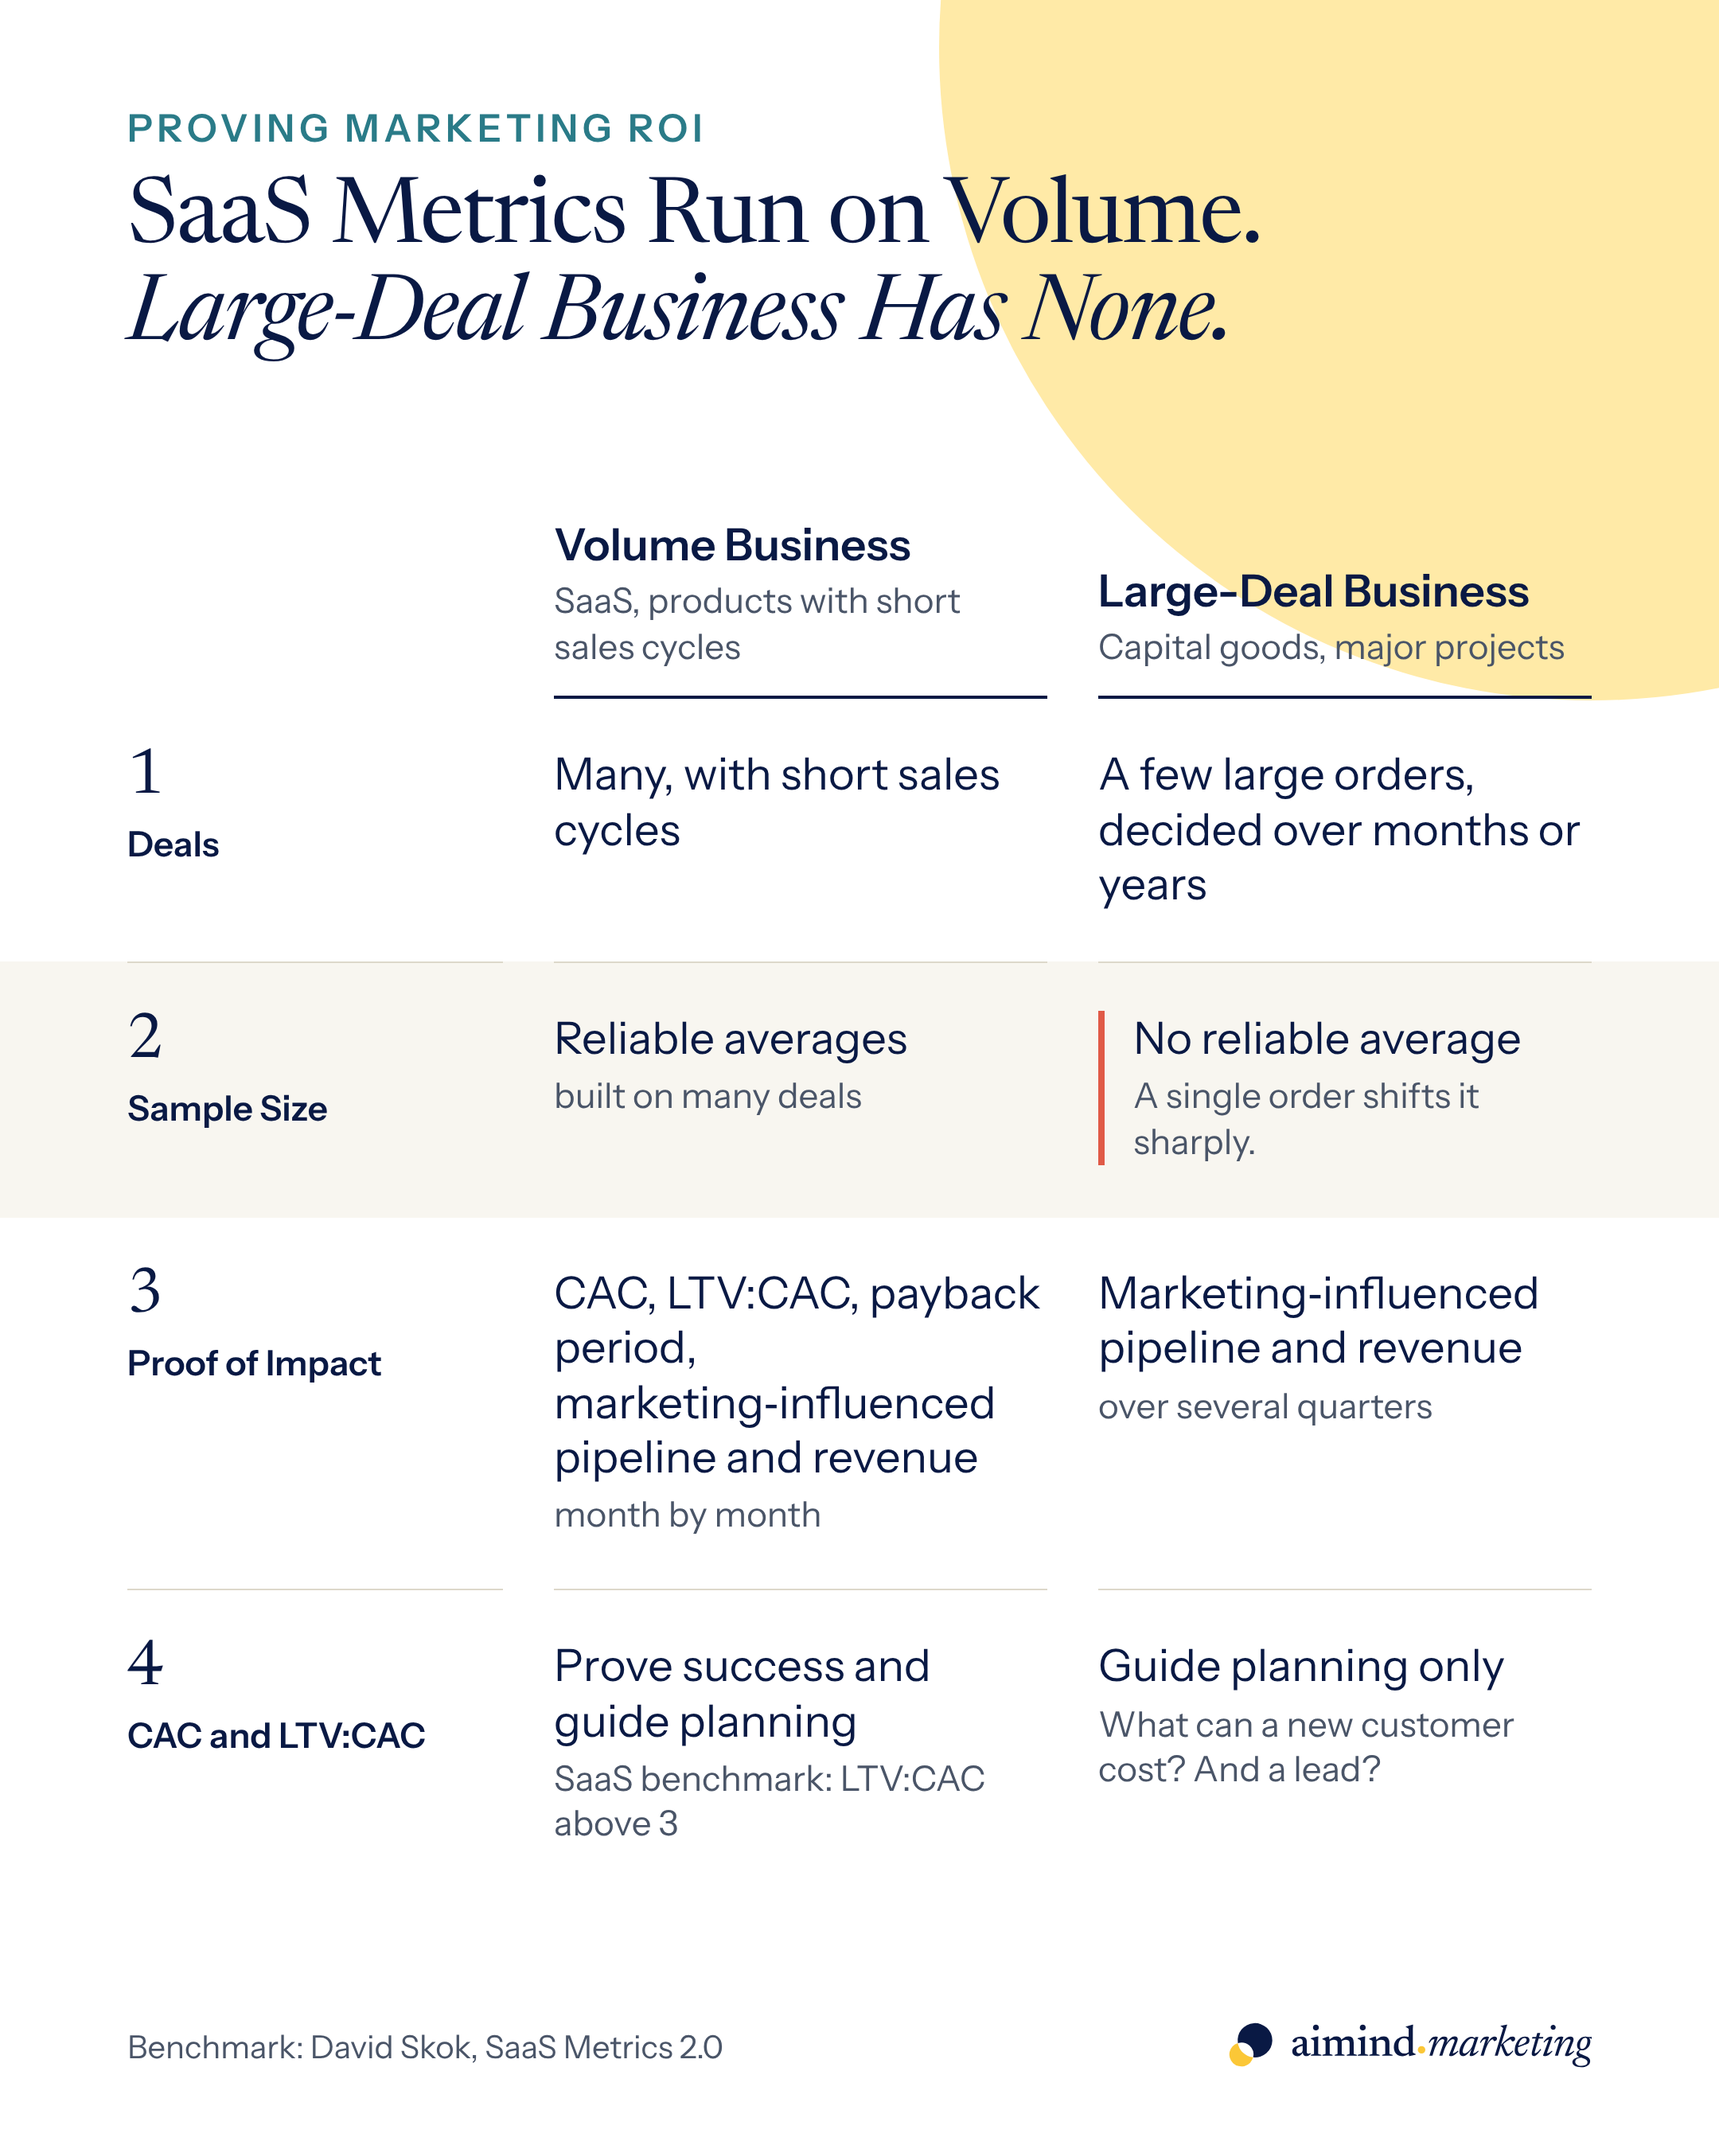
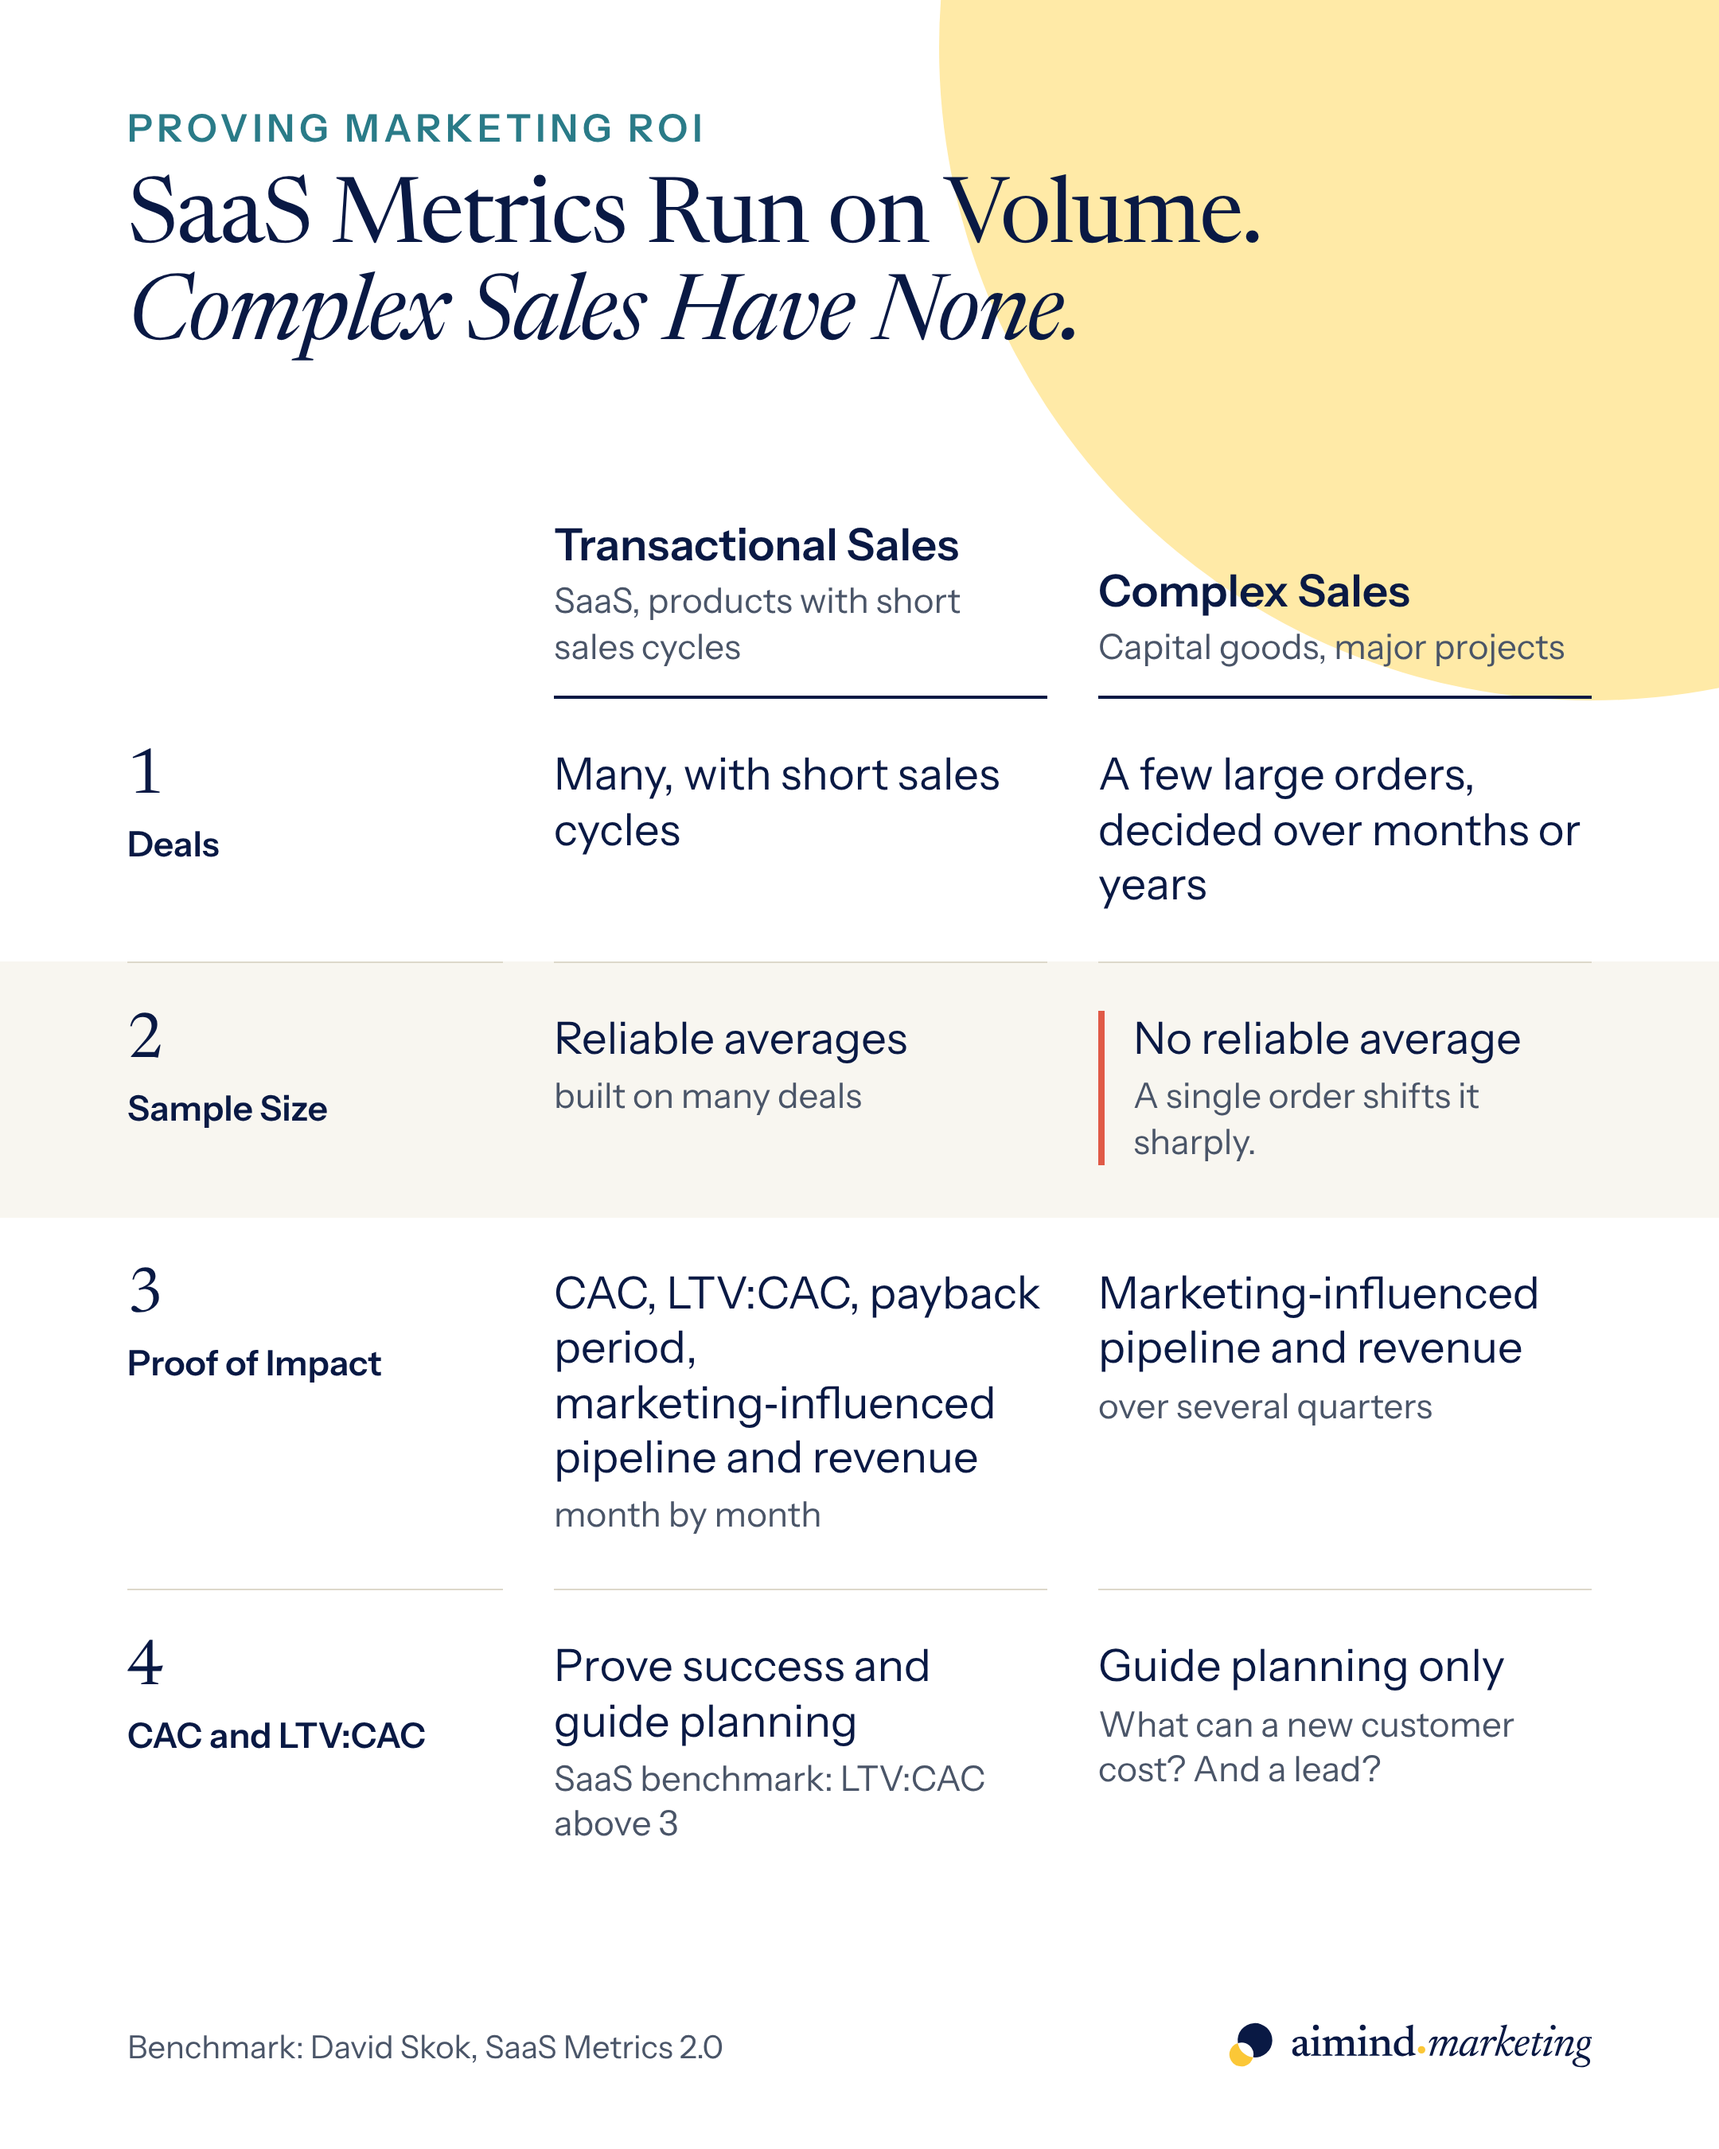
Infographic EN: complex sales vs. transactional sales
Claude-Session: https://claude.ai/code/session_014izKSdrQGWhwzweY2gkhZc

Changed region(s): [[0.062, 0.1244, 0.7134, 0.1867], [0.6514, 0.2489, 0.8995, 0.28], [0.3102, 0.2489, 0.5583, 0.28]]

diff --git a/design/infographics/roi-saas-investment-en.html b/design/infographics/roi-saas-investment-en.html
@@ -35,12 +35,12 @@ h1 em{font-style:italic}
 <div class="circle"></div>
 <div class="band"></div>
 <div class="kicker">Proving marketing ROI</div>
-<h1>SaaS Metrics Run on Volume.<br><em>Large-Deal Business Has None.</em></h1>
+<h1>SaaS Metrics Run on Volume.<br><em>Complex Sales Have None.</em></h1>
 
 <div class="m">
   <div></div>
-  <div class="h"><b>Volume Business</b><span>SaaS, products with short sales cycles</span></div>
-  <div class="h"><b>Large-Deal Business</b><span>Capital goods, major projects</span></div>
+  <div class="h"><b>Transactional Sales</b><span>SaaS, products with short sales cycles</span></div>
+  <div class="h"><b>Complex Sales</b><span>Capital goods, major projects</span></div>
 
   <div class="r">
     <div class="lab"><span class="n">1</span><span class="t">Deals</span></div>
